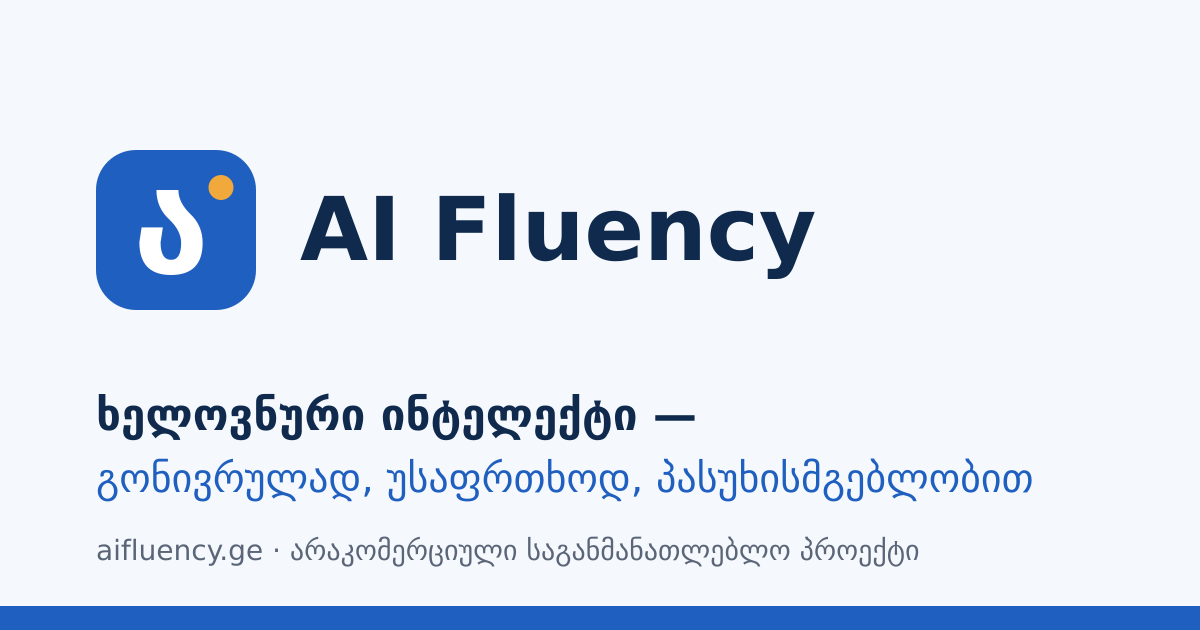
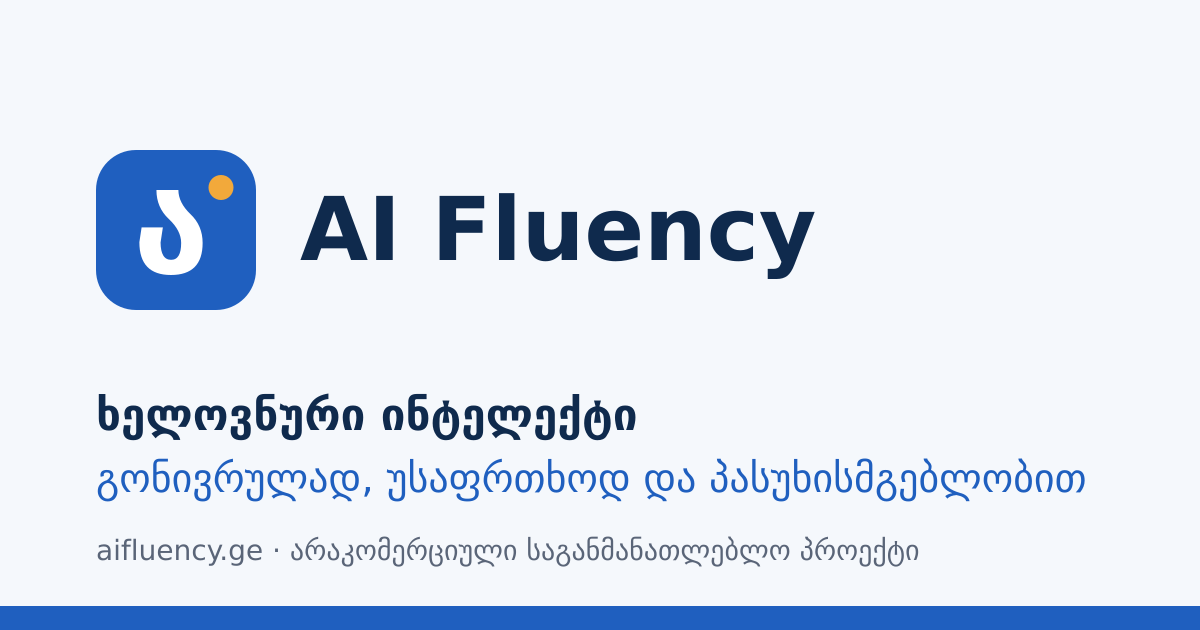
Remove em dashes from site content
Claude-Session: https://claude.ai/code/session_01S89YS8gXz7J29UwH4vTuvj

Changed region(s): [[0.5242, 0.7238, 0.925, 0.8143], [0.555, 0.6333, 0.5858, 0.6937]]

diff --git a/src/content.config.ts b/src/content.config.ts
@@ -5,7 +5,7 @@ import { z } from 'astro/zod';
 /**
  * სტატიები: src/content/articles/*.md
  * ყოველ გამოქვეყნებულ (draft: false) სტატიას სჭირდება მინიმუმ ერთი წყარო
- * და „ბოლო განახლების" თარიღი — პროექტის სტანდარტის მიხედვით.
+ * და „ბოლო განახლების" თარიღი, პროექტის სტანდარტის მიხედვით.
  */
 const articles = defineCollection({
   loader: glob({ pattern: '**/*.{md,mdx}', base: './src/content/articles' }),

diff --git a/LICENSE-CONTENT.md b/LICENSE-CONTENT.md
@@ -34,7 +34,7 @@ The source code is licensed separately under the MIT License (see [LICENSE](./LI
 
 > Dakan, Rick and Joseph Feller. *The AI Fluency Framework: A Descriptive and Normative Model of
 > Human-AI Interaction for Higher Education.* Version 1.1, Higher Education Authority, December 2025.
-> https://aifluencyframework.org/ — CC BY-SA 4.0
+> https://aifluencyframework.org/, CC BY-SA 4.0
 
 **ყურადღება:** ჩარჩოზე დაფუძნებული კურსის მასალები (ვიდეოები, გაკვეთილები) ცალკე ვრცელდება
 **CC BY-NC-SA 4.0** ლიცენზიით. ეს ლიცენზია CC BY-SA-თან თავსებადი არ არის, ამიტომ ამ მასალების
@@ -43,5 +43,5 @@ The source code is licensed separately under the MIT License (see [LICENSE](./LI
 ### Font Awesome Free
 
 საიტის ხატულები (`src/icons/`) აღებულია Font Awesome Free 7.3.1-დან:
-Fonticons, Inc., https://fontawesome.com — ხატულები CC BY 4.0
+Fonticons, Inc., https://fontawesome.com. ხატულების ლიცენზიაა CC BY 4.0
 (https://creativecommons.org/licenses/by/4.0/). ავტორის მითითება თითოეულ SVG ფაილშიცაა შენახული.

diff --git a/README.md b/README.md
@@ -1,4 +1,4 @@
-# AI Fluency — aifluency.ge
+# AI Fluency (aifluency.ge)
 
 არაკომერციული ქართულენოვანი საგანმანათლებლო საიტი, რომელიც ყველას ასწავლის
 ხელოვნური ინტელექტის სწორ, უსაფრთხო და პასუხისმგებლიან გამოყენებას.
